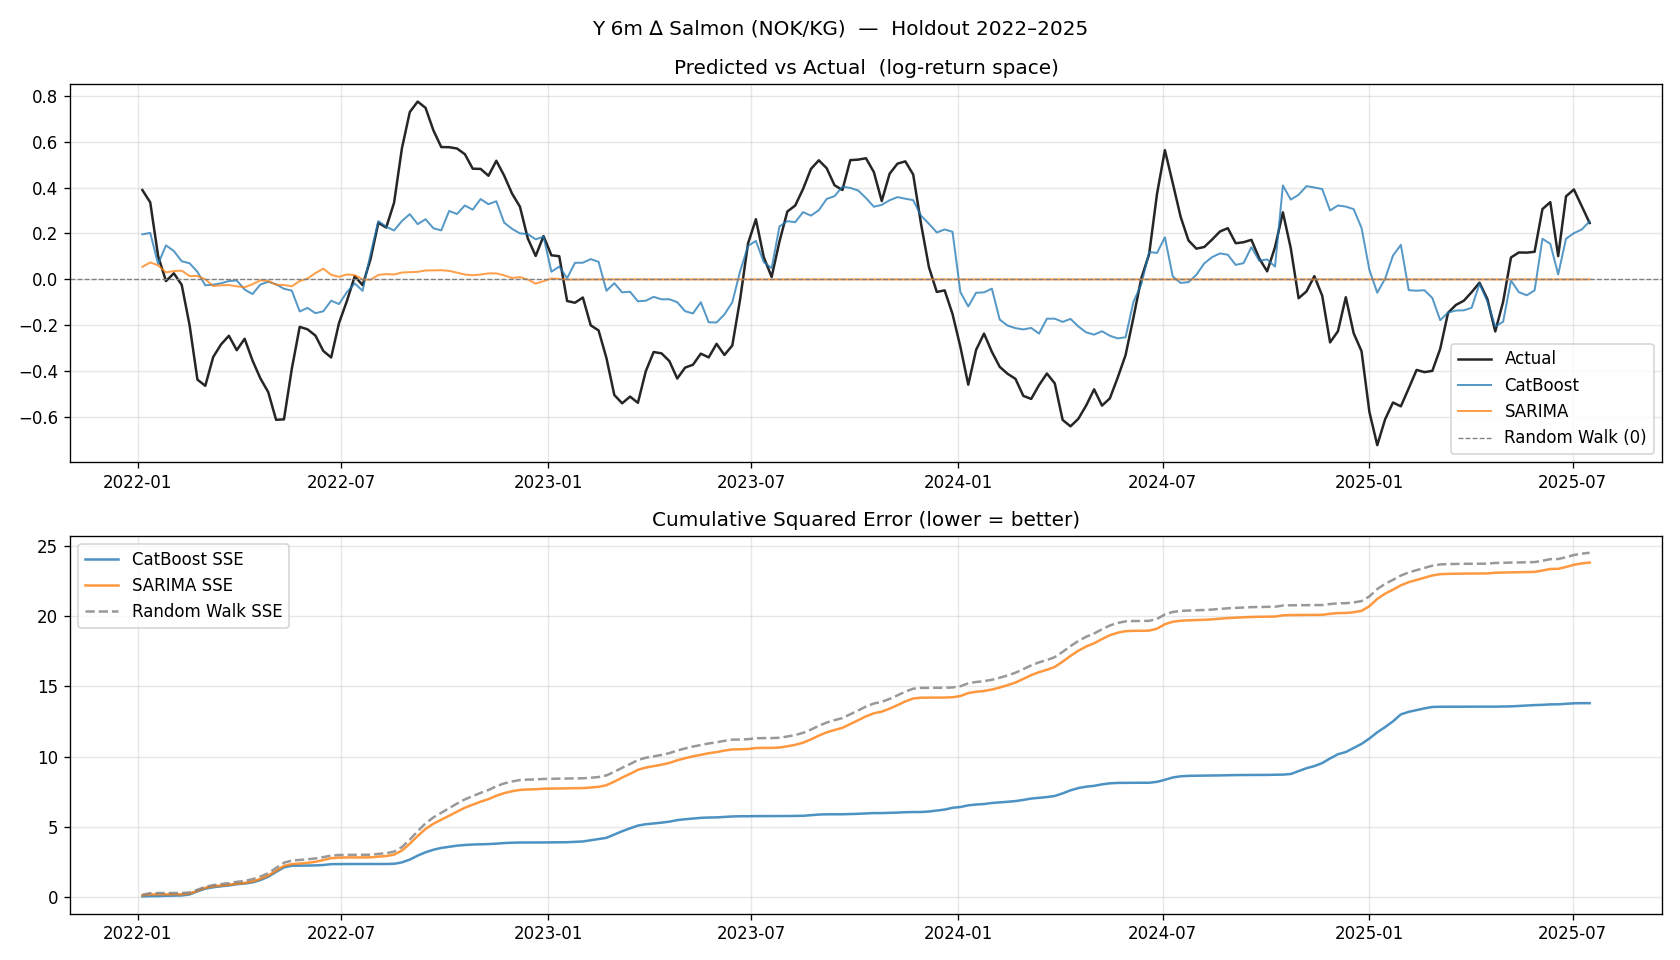
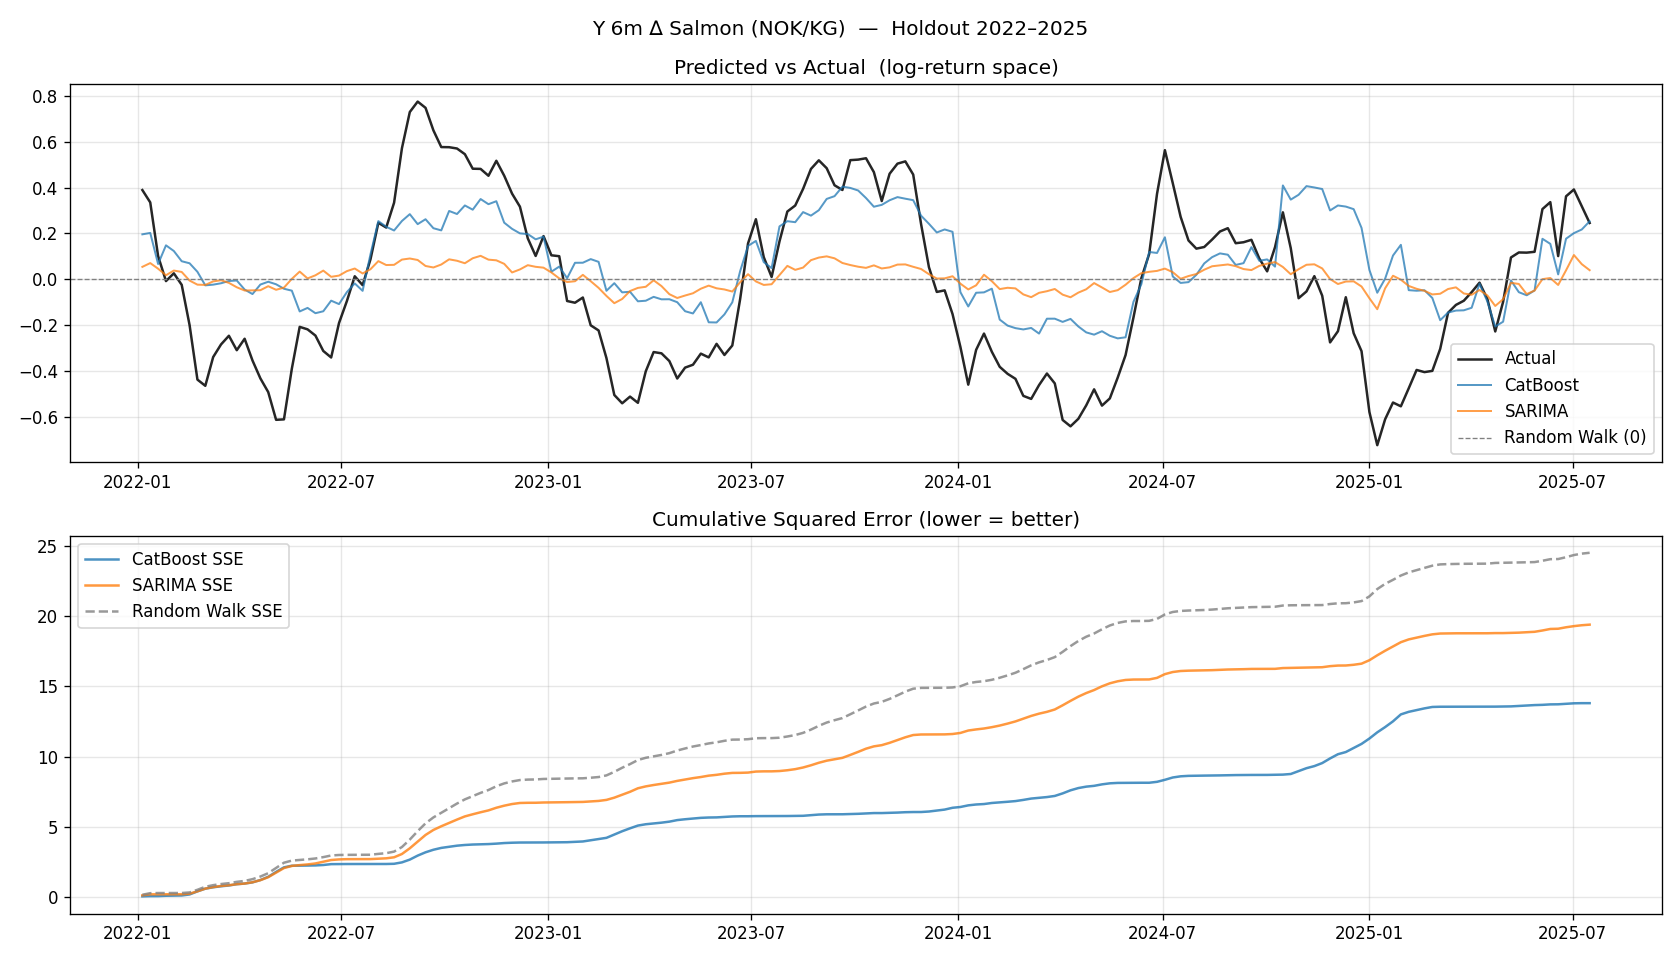
ARIMA complete

diff --git a/model_comparison.py b/model_comparison.py
@@ -127,21 +127,25 @@ def cv_catboost(cv_data, target, features, purge_weeks, n_folds):
 ## ── Purged walk-forward CV: SARIMA ───────────────────────────────────────────
 #
 #  SARIMA is univariate: input = weekly log-return r_t (Y_0w column).
-#  Training series is date-filtered from df_all (avoids NaN contamination
-#  from multi-step target construction in cv_data).
 #
-#  Forecast indexing:
-#    fc[0]   = r_{train_cutoff + 1w}   (1-step-ahead)
-#    fc[k]   = r_{train_cutoff + (k+1)w}
+#  Parameters are estimated ONCE per fold on weekly returns up to the purged
+#  train_cutoff_date. For each test observation at date t:
+#    (1) Apply fitted parameters to the ACTUAL observed weekly-return history
+#        r_1, ..., r_t  (no parameter re-estimation — `apply(refit=False)`)
+#    (2) Forecast r_{t+1}, ..., r_{t+steps}
+#    (3) Sum → prediction of Y_h at date t
 #
-#  Test row j is at train_cutoff + purge_weeks + j weeks (weekly data):
-#    Y_h at test row j = Σ r from row j to row j+steps-1
-#                      = Σ fc[ purge_weeks-1+j  :  purge_weeks-1+j+steps ]
+#  This is analogous to how CatBoost gets fresh feature values at each test
+#  date: the model's parameters are locked to pre-test data, but predictions
+#  condition on actual observations available at time t.
 #
 def cv_sarima(df_all, cv_data, target, weekly_ret_col, purge_weeks, n_folds, steps):
     n         = len(cv_data)
     fold_size = n // n_folds
     results   = []
+
+    # All weekly returns (with dates) — used for conditioning at each test date
+    ret_series = df_all.dropna(subset=[weekly_ret_col])[["Date", weekly_ret_col]].reset_index(drop=True)
 
     for i in range(1, n_folds):
         test_start = i * fold_size
@@ -157,29 +161,28 @@ def cv_sarima(df_all, cv_data, target, weekly_ret_col, purge_weeks, n_folds, ste
         # Date of last row used for training (drives SARIMA cutoff)
         train_cutoff_date = cv_data.iloc[train_end - 1]["Date"]
 
-        # Weekly return series from df_all up to the cutoff date (no target NaN issue)
-        weekly_ret = (
-            df_all[df_all["Date"] <= train_cutoff_date][weekly_ret_col]
-            .dropna()
-            .values
-        )
-        if len(weekly_ret) < max(52, 2 * steps):
+        # Training weekly returns: up to purged cutoff (parameters see only this)
+        train_mask       = ret_series["Date"] <= train_cutoff_date
+        weekly_ret_train = ret_series.loc[train_mask, weekly_ret_col].values
+        if len(weekly_ret_train) < max(52, 2 * steps):
             continue
 
         try:
-            t0    = time.time()
-            model = _fit_sarima(weekly_ret)
-            order = f"SARIMA{model.order}x{model.seasonal_order}"
+            t0     = time.time()
+            model  = _fit_sarima(weekly_ret_train)
+            order  = f"SARIMA{model.order}x{model.seasonal_order}"
+            sm_res = model.arima_res_
 
-            # Total forecast length needed
-            offset = purge_weeks - 1          # 0-indexed: fc[offset] = return at test row 0
-            n_fc   = offset + len(test) + steps
-            fc     = model.predict(n_periods=n_fc)
-
-            preds = np.array([
-                np.sum(fc[offset + j : offset + j + steps])
-                for j in range(len(test))
-            ])
+            preds = np.zeros(len(test))
+            for j, t_date in enumerate(test["Date"].values):
+                # Target at t is Σ r_t, r_{t+1}, ..., r_{t+steps-1}
+                # Condition on r_1, ..., r_{t-1} (strictly before t)
+                # Forecast r_t, ..., r_{t+steps-1}, sum
+                mask_t  = ret_series["Date"] < t_date
+                history = ret_series.loc[mask_t, weekly_ret_col].values
+                applied = sm_res.apply(history, refit=False)
+                fc      = applied.forecast(steps=steps)
+                preds[j] = float(np.sum(fc))
 
             print(f"      fold {i}/{n_folds-1}  {order}  ({time.time()-t0:.0f}s)")
 
@@ -290,16 +293,13 @@ for target, cfg in HORIZONS.items():
         print("  [SA]  CV  insufficient data")
 
     # ── SARIMA holdout ────────────────────────────────────────────────────────
-    #  For long horizons (e.g. Y 12m), cv_data only contains rows where the
-    #  target is not NaN — meaning it ends 52 weeks before HOLDOUT_START.
-    #  If we trained SARIMA only on cv_data's weekly returns, we'd throw away
-    #  a full year of price history. So we use ALL weekly returns from df up
-    #  to HOLDOUT_START instead.
+    #  Parameters fit ONCE on all weekly returns strictly before HOLDOUT_START.
+    #  For each holdout date t, condition on the ACTUAL observed weekly-return
+    #  history r_1, ..., r_t (via statsmodels `apply(refit=False)`), then
+    #  forecast r_{t+1}, ..., r_{t+steps} and sum.
     #
-    #  fc[0] = return at last_training_week + 1 week.
-    #  The first holdout row may not be exactly 1 week after last_training_week
-    #  (e.g. if the data has a gap), so we compute the exact offset from dates
-    #  to correctly map fc indices to holdout rows.
+    #  This matches what CatBoost does: locked parameters from the training
+    #  period, but fresh conditioning information at each prediction date.
     print(f"  [SA]  running holdout ...")
     t0 = time.time()
 
@@ -308,26 +308,27 @@ for target, cfg in HORIZONS.items():
         .dropna()
         .reset_index(drop=True)
     )
-    last_ret_date   = (
-        df[df["Date"] < HOLDOUT_START]
-        .dropna(subset=[WEEKLY_RET_COL])["Date"]
-        .iloc[-1]
+    ret_series_full = (
+        df.dropna(subset=[WEEKLY_RET_COL])[["Date", WEEKLY_RET_COL]]
+        .reset_index(drop=True)
     )
-    hold_first_date = hold_data["Date"].iloc[0]
-    hld_gap         = max(1, round((hold_first_date - last_ret_date).days / 7))
-    hld_offset      = hld_gap - 1   # 0-indexed: fc[hld_offset] = return at first holdout row
 
     sa_h_p = None
     try:
         sa_hld_model = _fit_sarima(weekly_ret_full.values)
         order        = f"SARIMA{sa_hld_model.order}x{sa_hld_model.seasonal_order}"
-        n_fc_h       = hld_offset + len(hold_data) + steps
-        fc_h         = sa_hld_model.predict(n_periods=n_fc_h)
+        sm_res       = sa_hld_model.arima_res_
 
-        sa_h_p = np.array([
-            np.sum(fc_h[hld_offset + j : hld_offset + j + steps])
-            for j in range(len(hold_data))
-        ])
+        sa_h_p = np.zeros(len(hold_data))
+        for j, t_date in enumerate(hold_data["Date"].values):
+            # Target at t is Σ r_t, ..., r_{t+steps-1}
+            # Condition on r_1, ..., r_{t-1} (strictly before t), forecast steps ahead
+            mask_t  = ret_series_full["Date"] < t_date
+            history = ret_series_full.loc[mask_t, WEEKLY_RET_COL].values
+            applied = sm_res.apply(history, refit=False)
+            fc      = applied.forecast(steps=steps)
+            sa_h_p[j] = float(np.sum(fc))
+
         sa_h_a    = hold_data[target].values
         sa_h_rmse = rmse(sa_h_a, sa_h_p)
         sa_h_mae  = mae(sa_h_a, sa_h_p)
